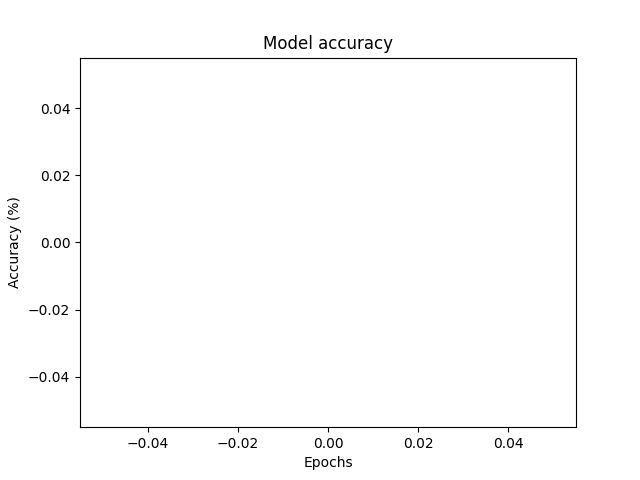
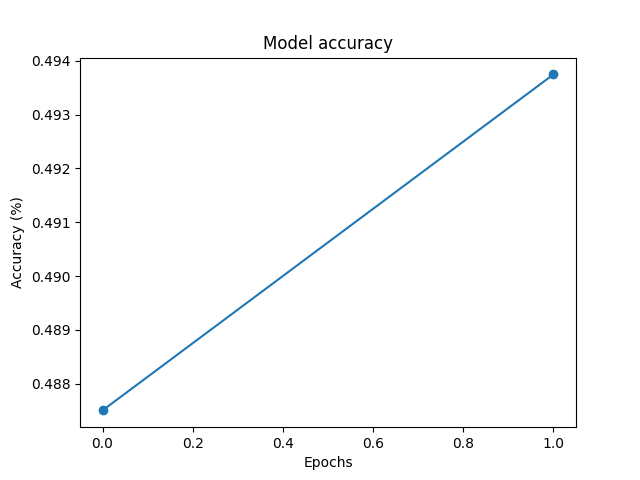
Improving code and setting testing parameters

diff --git a/network/tensor_network.py b/network/tensor_network.py
@@ -1,6 +1,6 @@
 import os
 os.environ['TF_CPP_MIN_LOG_LEVEL'] = '3' 
-import sys
+import operator
 import tensorflow as tf
 import tensorflow_probability as tfp
 from utils.dataloader import Dataset
@@ -36,7 +36,8 @@ class Network():
                       batch: int = 222,
                       classes: dict = {9: "0", 0: "1"},
                       efficient: bool = False,
-                      shuffle: bool = False):
+                      shuffle: bool = False,
+                      samples: int = -1):
   
     self.image_size         = image_size
     self.circuit_dim        = circuit_dim
@@ -62,7 +63,7 @@ class Network():
 
     self.dataset = Dataset( image_size=self.image_size,
                             enable_transformations=self.enable_transform,
-                            enable_log=self.enable_log, filter=True, filter_by=self.classes, samples=-1)
+                            enable_log=self.enable_log, filter=True, filter_by=self.classes, samples=samples, shuffle=self.shuffle)
 
     self.qcircuit = QuantumOperator(circuit_dimension=self.circuit_dim, draw_circuit=draw_circuits, show_gpu_support=False, enable_gpu=False)
   
@@ -73,13 +74,13 @@ class Network():
     return max(p_max_false - p_label + self.param_lambda, 0) ** self.param_eta, 1 if p_result == p_label else 0
 
   def execute(self, image, label, weights, efficient, classes, device):
-    result = self.qcircuit.execute(image, weights=weights, efficient=efficient, device=device)
+    result = self.qcircuit.execute(image, weights=weights, efficient=efficient, device=device, shots=self.shots)
     loss, correct = self.loss(result, label, classes)
     return loss, correct
 
-  def spsa_loss(self, batch, weights, classes, verbose: bool = False):
+  def spsa_loss(self, batch, weights, classes, verbose: bool = False, name: str = "SPSA Loss"):
     idx_data, idx_label = batch
-    total_loss, total_correct, iteration = 0.0, 0, 0
+    total_loss, total_correct = 0.0, 0
     
     jobs = os.cpu_count()
     
@@ -92,11 +93,35 @@ class Network():
       total_correct += values[1]
 
     if verbose:
-      sys.stdout.write("\033[F")
-      sys.stdout.write("\033[K")
-      print(f"The loss is {total_loss / batch[0].shape[0]} at [{iteration}] with accuracy {total_correct / batch[0].shape[0]} ")
+      print(f"The {name} is {total_loss / batch[0].shape[0]} with accuracy {total_correct / batch[0].shape[0]} ")
 
     return (total_loss / batch[0].shape[0]), total_correct
+
+  def predict(self):
+
+    if self.enable_log:
+      print("Starting testing...")
+    jobs = os.cpu_count()
+    
+    if len(devices) > 1:
+      jobs += len(devices) - 1
+
+    results = Parallel(n_jobs=int(jobs))(delayed(self.qcircuit.execute)(image=sample[0], weights=self.weights, efficient=self.efficient, device=device, shots=self.shots) for sample, device in zip(self.dataset.get_test_samples(), cycle(devices)))
+    
+    prediction_correct = 0
+
+    for prediction, sample in zip(results, self.dataset.get_test_samples()):
+      prediction_class = max(prediction.items(), key=operator.itemgetter(1))[0]
+      prediction_label = list(self.classes.keys())[list(self.classes.values()).index(prediction_class)]
+      correct_label = sample[1]
+      print(f"<{prediction}>:Pred. class=[{prediction_class}], Correct Label=[{correct_label}], Pred. Label=[{prediction_label}]", end="")
+      if prediction_label == correct_label:
+        print(" \u2714")
+        prediction_correct += 1
+      else:
+        print(" \u2716")
+    print(f"The accuracy of the model is {prediction_correct}/{self.dataset.get_test_dataset_size()}={prediction_correct/self.dataset.get_test_dataset_size()}")
+
 
   def train(self, output_results: bool = False):
 
@@ -119,14 +144,14 @@ class Network():
         print(f"Epoch {epoch}/{self.epochs}")
 
       num_batch = 0
-      for batch in self.dataset.get_batch(batch=self.batch, shuffle=self.shuffle):
+      for batch in self.dataset.get_batch(batch=self.batch):
         print(f"Batch: {num_batch}")
         delta = tfp.distributions.Bernoulli(probs=0.5, dtype=tf.float32).sample(sample_shape=(self.circuit_dim - 1, self.unitary_dim ** 2) if not self.efficient else (self.circuit_dim - 3, (self.unitary_dim ** 2) ** 2))
         # delta = tf.random.normal((self.circuit_dim - 1, self.unitary_dim ** 2))
         weights_neg, weights_pos = self.weights - beta_k * delta, self.weights + beta_k * delta
 
-        l_tilde_1, correct = self.spsa_loss(batch, weights_pos, self.classes, True)
-        l_tilde_2, correct_2 = self.spsa_loss(batch, weights_neg, self.classes)
+        l_tilde_1, correct = self.spsa_loss(batch, weights_pos, self.classes, True, "L1 Loss")
+        l_tilde_2, correct_2 = self.spsa_loss(batch, weights_neg, self.classes, True, "L2 Loss")
 
         g = (l_tilde_1 - l_tilde_2) / (2 * beta_k)
         
@@ -135,36 +160,40 @@ class Network():
         self.loss_l2.append(l_tilde_2)
         self.correct_l1.append(correct / batch[0].shape[0])
         self.correct_l2.append(correct_2 / batch[0].shape[0])
-        if self.enable_log:
-          print(f"The loss g is {self.loss_g}, compared to +alpha {self.loss_l1} and -alpha {self.loss_l2} with acc {correct / batch[0].shape[0]} and {correct_2 / batch[0].shape[0]} respectively")
+        # if self.enable_log:
+        #   print(f"The loss g is {self.loss_g}, compared to +alpha {self.loss_l1} and -alpha {self.loss_l2} with acc {correct / batch[0].shape[0]} and {correct_2 / batch[0].shape[0]} respectively")
         spsa_v = self.param_gamma * spsa_v - g * alpha_k * delta
 
         self.weights = self.weights + spsa_v
 
         
         if output_results:
-          tl.generate_plot(y_value=self.loss_g, x_label="Total Batches", y_label="Modified SPSA Loss", title="Training Convergence", save_plot=True, filename=f"loss_{self.image_size}x{self.image_size}.png")
-          tl.generate_plot(y_value=self.loss_l1, x_label="Total Batches", y_label="SPSA Loss +alpha", title="Total Loss", save_plot=True, filename=f"total_loss_L1_{self.image_size}x{self.image_size}.png")
-          tl.generate_plot(y_value=self.loss_l2, x_label="Total Batches", y_label="SPSA Loss -alpha", title="Total Loss", save_plot=True, filename=f"total_loss_L2_{self.image_size}x{self.image_size}.png")
-          tl.generate_plot(y_value=self.correct_l1, x_label="Total Batches", y_label="Accuracy", title="Accuracy for L +alpha", save_plot=True, filename=f"accuracy_L1_{self.image_size}x{self.image_size}.png")
-          tl.generate_plot(y_value=self.correct_l2, x_label="Total Batches", y_label="Accuracy", title="Accuracy for L -alpha", save_plot=True, filename=f"accuracy_L2_{self.image_size}x{self.image_size}.png")
+          tl.generate_plot(y_value=self.loss_g, x_label="Total Batches", y_label="Modified SPSA Loss", title="Training Convergence", save_plot=True, filename=f"loss_{self.image_size}x{self.image_size}.png", marker='o')
+          tl.generate_plot(y_value=self.loss_l1, x_label="Total Batches", y_label="SPSA Loss +alpha", title="Total Loss", save_plot=True, filename=f"total_loss_L1_{self.image_size}x{self.image_size}.png", marker='o')
+          tl.generate_plot(y_value=self.loss_l2, x_label="Total Batches", y_label="SPSA Loss -alpha", title="Total Loss", save_plot=True, filename=f"total_loss_L2_{self.image_size}x{self.image_size}.png", marker='o')
+          tl.generate_plot(y_value=self.correct_l1, x_label="Total Batches", y_label="Accuracy", title="Accuracy for L +alpha", save_plot=True, filename=f"accuracy_L1_{self.image_size}x{self.image_size}.png", marker='o')
+          tl.generate_plot(y_value=self.correct_l2, x_label="Total Batches", y_label="Accuracy", title="Accuracy for L -alpha", save_plot=True, filename=f"accuracy_L2_{self.image_size}x{self.image_size}.png", marker='o')
 
-        epoch_correct += correct
+        epoch_correct += int((correct + correct_2)/2)
         num_batch += 1
 
-      if output_results:
-        tl.generate_plot(y_value=self.accuracy, x_label="Epochs", y_label="Accuracy (%)", title="Model accuracy", save_plot=True, filename=f"accuracy_{self.image_size}x{self.image_size}.png")  
+        
       
       if self.enable_log:
         print(f"The accuracy at epoch {epoch} is {epoch_correct}/ {self.dataset.get_dataset_size()} = {epoch_correct / self.dataset.get_dataset_size()}")
+      
       self.accuracy.append(epoch_correct / self.dataset.get_dataset_size())
+      
+      if output_results:
+        tl.generate_plot(y_value=self.accuracy, x_label="Epochs", y_label="Accuracy (%)", title="Model accuracy", save_plot=True, filename=f"accuracy_{self.image_size}x{self.image_size}.png", marker='o')
 
 
 if __name__ == '__main__':
   image_size = 8
-  classes = {0: "0", 1: "1"}
-  model = Network(image_size=image_size, circuit_dim=image_size*image_size, classes=classes, enable_log=True, draw_circuits=False, epochs=30, efficient=True, batch=222, shuffle=True)
+  classes = {0: "1", 1: "0"}
+  model = Network(image_size=image_size, circuit_dim=image_size*image_size, classes=classes, enable_log=True, draw_circuits=False, epochs=2, efficient=True, batch=222, shuffle=True, samples=-1, shots=1024)
   model.train(output_results=True)
+  model.predict()
 
 
 # d = Dataset(image_size=8, enable_transformations=True, enable_log=True, filter=True, filter_by={3: "1", 7: "0"})

diff --git a/utils/dataloader.py b/utils/dataloader.py
@@ -18,7 +18,8 @@ class Dataset():
               enable_log: bool = False,
               filter: bool = False,
               samples: int = 100,
-              filter_by: dict = None) -> 'Dataset':
+              filter_by: dict = None,
+              shuffle: bool = False) -> 'Dataset':
     """ Download the MNIST Dataset to be used for
         training, test, and validation.
     
@@ -62,6 +63,12 @@ class Dataset():
       self.image_train, self.label_train = self.image_train[idxs_train], self.label_train[idxs_train]
       self.image_test, self.label_test = self.image_test[idxs_test], self.label_test[idxs_test]
     
+    if shuffle:
+      np.random.shuffle(self.image_train)
+      np.random.shuffle(self.image_test)
+      np.random.shuffle(self.label_test)
+      np.random.shuffle(self.label_train)
+
     if samples > 0:
       self.image_train, self.label_train = self.image_train[:int(0.8*samples)], self.label_train[:int(0.8*samples)]
       self.image_test, self.label_test = self.image_test[:int(0.2*samples)], self.label_test[:int(0.2*samples)]
@@ -129,19 +136,21 @@ class Dataset():
 
     return cropped, rotated, cropped_test, rotated_test
 
-  def get_batch(self, batch: int = 222, shuffle: bool = False) -> Any:
-    if shuffle:
-      indeces = np.arange(self.image_train.shape[0])
-      np.random.shuffle(indeces)
-
+  def get_batch(self, batch: int = 222) -> Any:
     for idx in range(0, self.image_train.shape[0], batch):
       lim = min(idx + batch, self.image_train.shape[0])
-      idxs = indeces[idx:lim] if shuffle else slice(idx, lim)
-      image = self.image_train.numpy()
-      yield tf.convert_to_tensor(image[idxs]), self.label_train[idxs]
+      idxs = slice(idx, lim)
+      yield self.image_train[idxs], self.label_train[idxs]
       
   def get_image(self):
     return self.image_train[0]
 
   def get_dataset_size(self):
     return self.image_train.shape[0]
+
+  def get_test_samples(self):
+    for image, label in zip(self.image_test, self.label_test):
+      yield image, label
+  
+  def get_test_dataset_size(self):
+    return self.image_test.shape[0]

diff --git a/utils/utils.py b/utils/utils.py
@@ -20,16 +20,17 @@ def generate_plot(x_value: list or np.ndarray or tf.Tensor = None,
                   y_label: str = None,
                   title: str = None,
                   save_plot: bool = False,
-                  filename: str = None) -> None:
+                  filename: str = None,
+                  **kwargs) -> None:
 
   if x_value is None and y_value is None:
     sys.exit("Please provide at least the y_value")
   
   plt.figure()
   if x_value is not None:
-    plt.plot(x_value, y_value)
+    plt.plot(x_value, y_value, **kwargs)
   else:
-    plt.plot(y_value)
+    plt.plot(y_value, **kwargs)
   
   plt.title("Generic Plot Title" if title is None else title)
   plt.xlabel("X-axis values" if x_label is None else x_label)
@@ -39,6 +40,7 @@ def generate_plot(x_value: list or np.ndarray or tf.Tensor = None,
     plt.show(block=False)
     plt.close()
   else:
+    
     output_path = os.path.abspath("output/")
     plt.savefig(os.path.join(output_path, filename), format="png")
 
